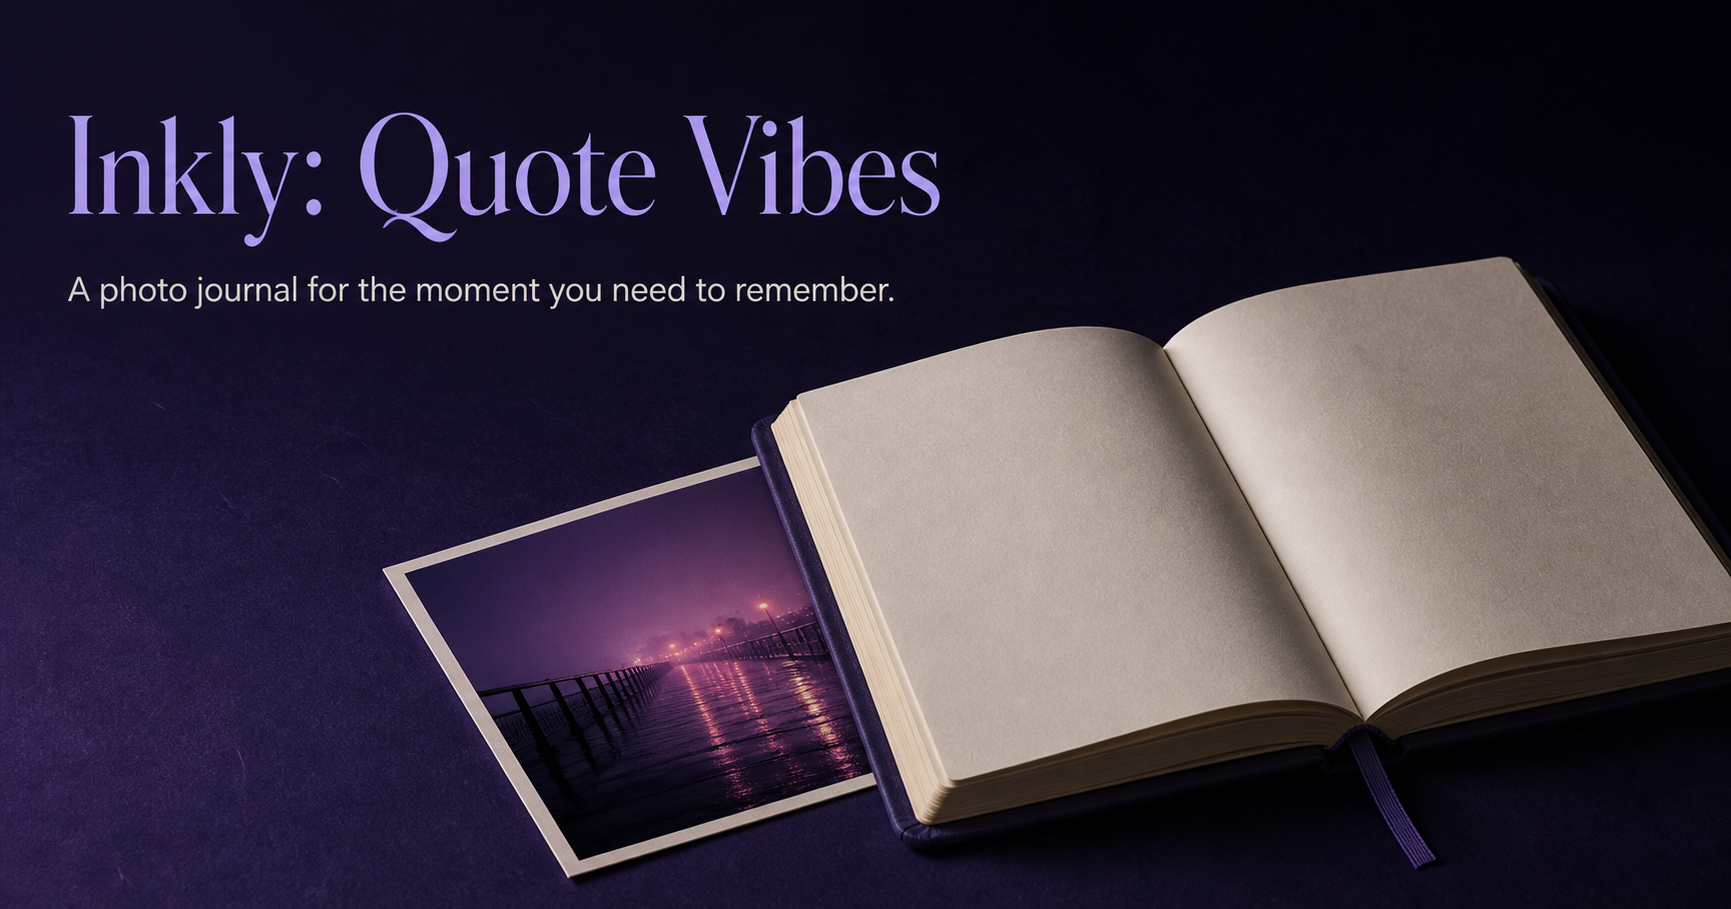
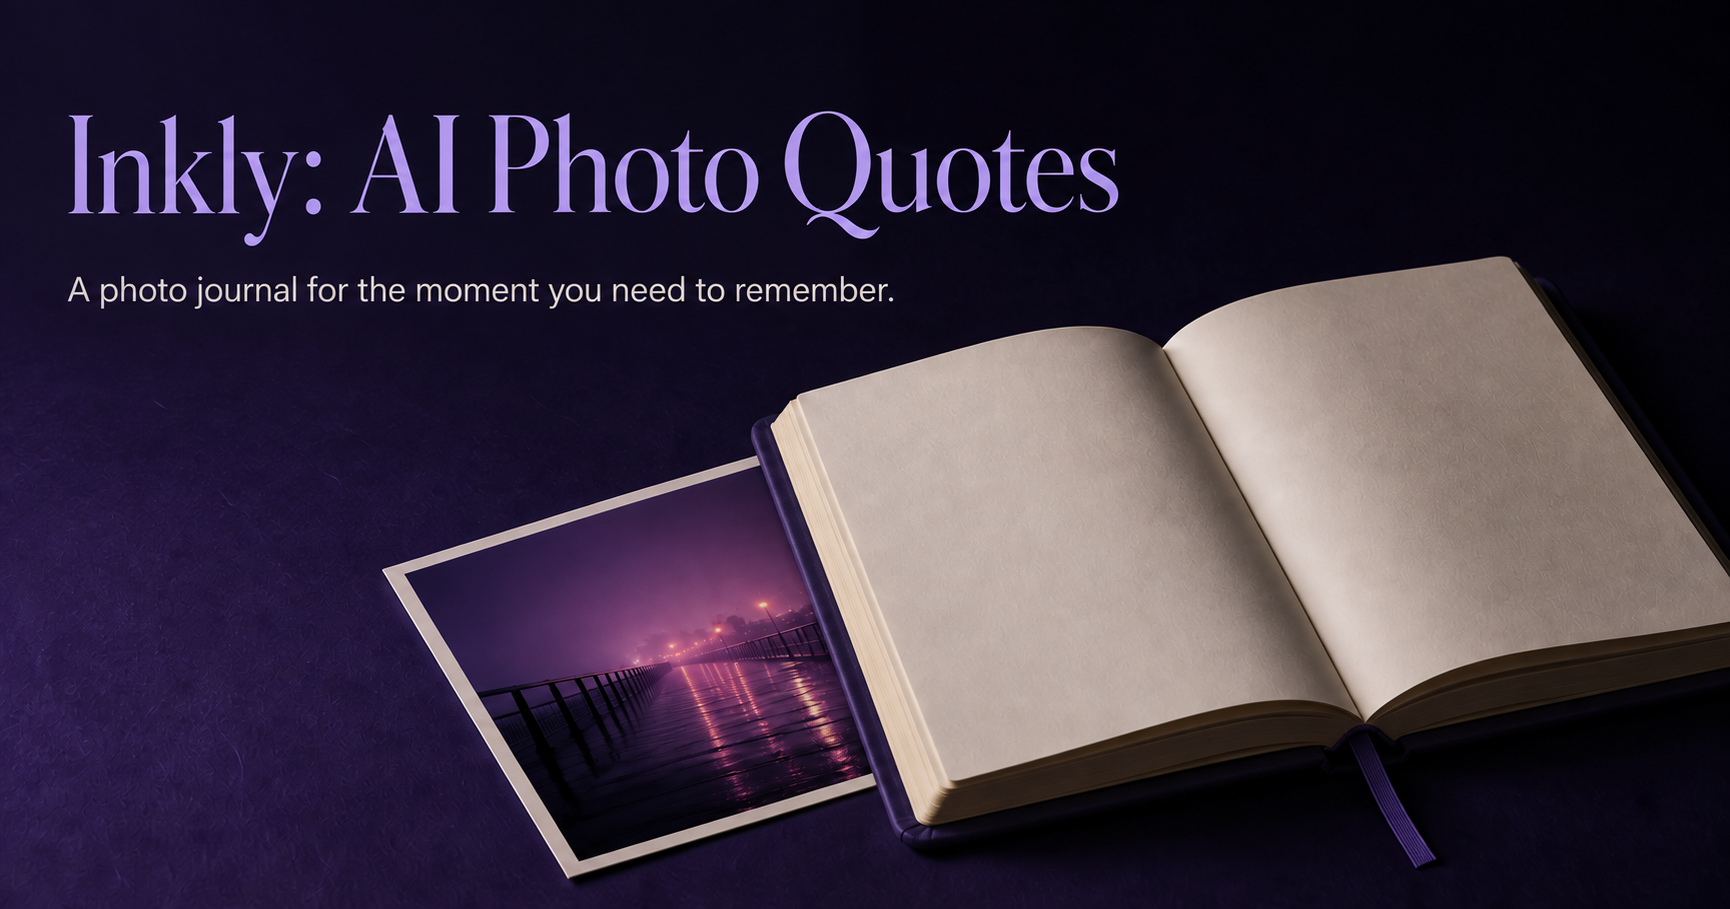
Update Inkly app name

diff --git a/app/page.tsx b/app/page.tsx
@@ -57,7 +57,7 @@ function Wordmark() {
     <Link
       href="/"
       className="group flex items-center gap-2.5"
-      aria-label="Inkly: Daily Vibes home"
+      aria-label="Inkly: AI Photo Quotes home"
     >
       <Image
         src="/inkly-logo.png"
@@ -71,7 +71,7 @@ function Wordmark() {
           Inkly
         </span>
         <span className="block text-[10px] font-semibold uppercase tracking-[.14em] text-fuchsia-200">
-          Daily Vibes
+          AI Photo Quotes
         </span>
       </span>
     </Link>
@@ -146,8 +146,8 @@ export default function Home() {
         <div className="absolute -left-32 top-8 -z-10 size-[30rem] rounded-full bg-[#8d4de8]/25 blur-[110px]" />
         <div>
           <p className="mb-5 flex items-center gap-2 text-xs font-semibold uppercase tracking-[.18em] text-fuchsia-200">
-            <span className="size-1.5 rounded-full bg-[#be55cc]" /> Inkly: Daily
-            Vibes
+            <span className="size-1.5 rounded-full bg-[#be55cc]" /> Inkly: AI
+            Photo Quotes
           </p>
           <h1 className="max-w-xl font-serif text-5xl leading-[.98] tracking-[-.055em] text-white sm:text-6xl lg:text-7xl">
             A photo journal for the moment you need to remember.

diff --git a/app/layout.tsx b/app/layout.tsx
@@ -11,20 +11,20 @@ const serif = Playfair_Display({
 export const metadata: Metadata = {
   metadataBase: new URL('https://inkly-web-taupe.vercel.app'),
   title: {
-    default: 'Inkly: Daily Vibes — a photo journal for real moments',
-    template: '%s | Inkly: Daily Vibes',
+    default: 'Inkly: AI Photo Quotes',
+    template: '%s | Inkly: AI Photo Quotes',
   },
   description:
     'Capture a real moment. Turn it into a personal reflection. Keep it private—or share it intentionally.',
   icons: { icon: '/inkly-favicon.png' },
   openGraph: {
-    title: 'Inkly: Daily Vibes',
+    title: 'Inkly: AI Photo Quotes',
     description: 'A photo journal for the moment you need to remember.',
     images: ['/og.png'],
   },
   twitter: {
     card: 'summary_large_image',
-    title: 'Inkly: Daily Vibes',
+    title: 'Inkly: AI Photo Quotes',
     description: 'A photo journal for the moment you need to remember.',
     images: ['/og.png'],
   },
